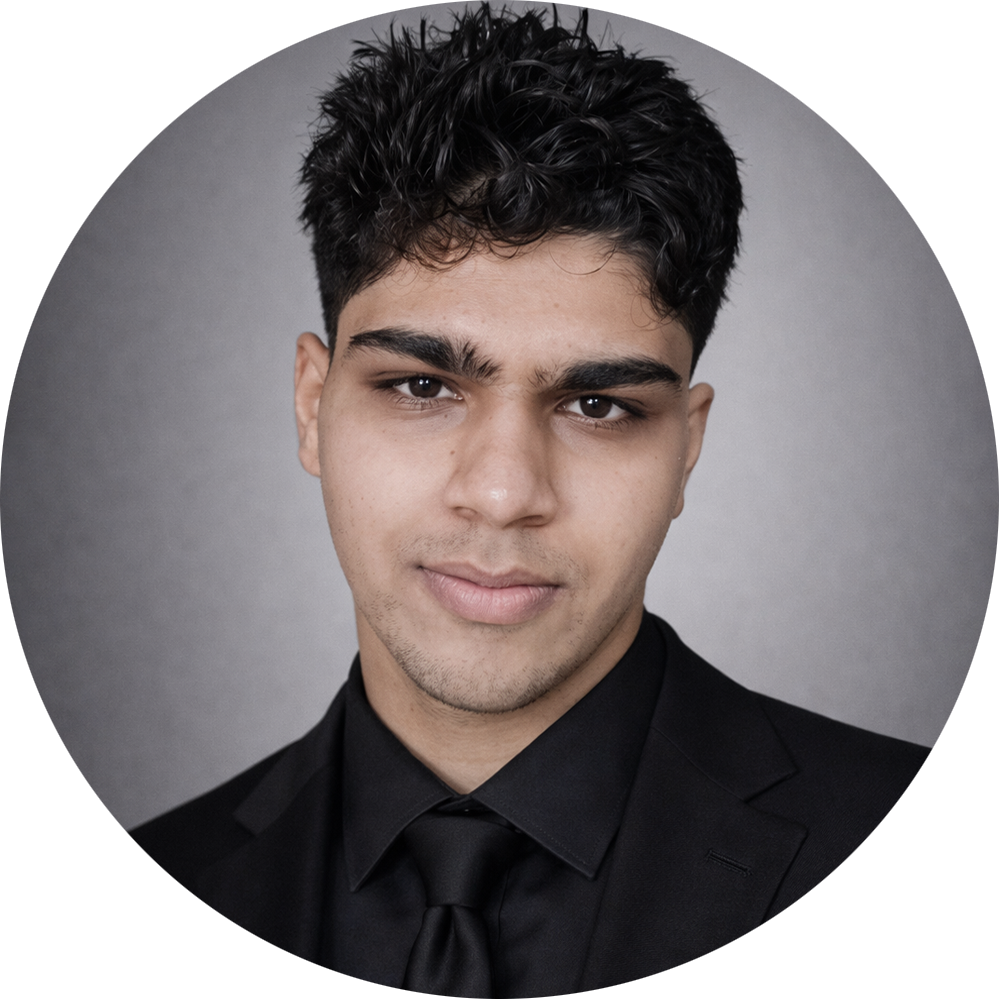
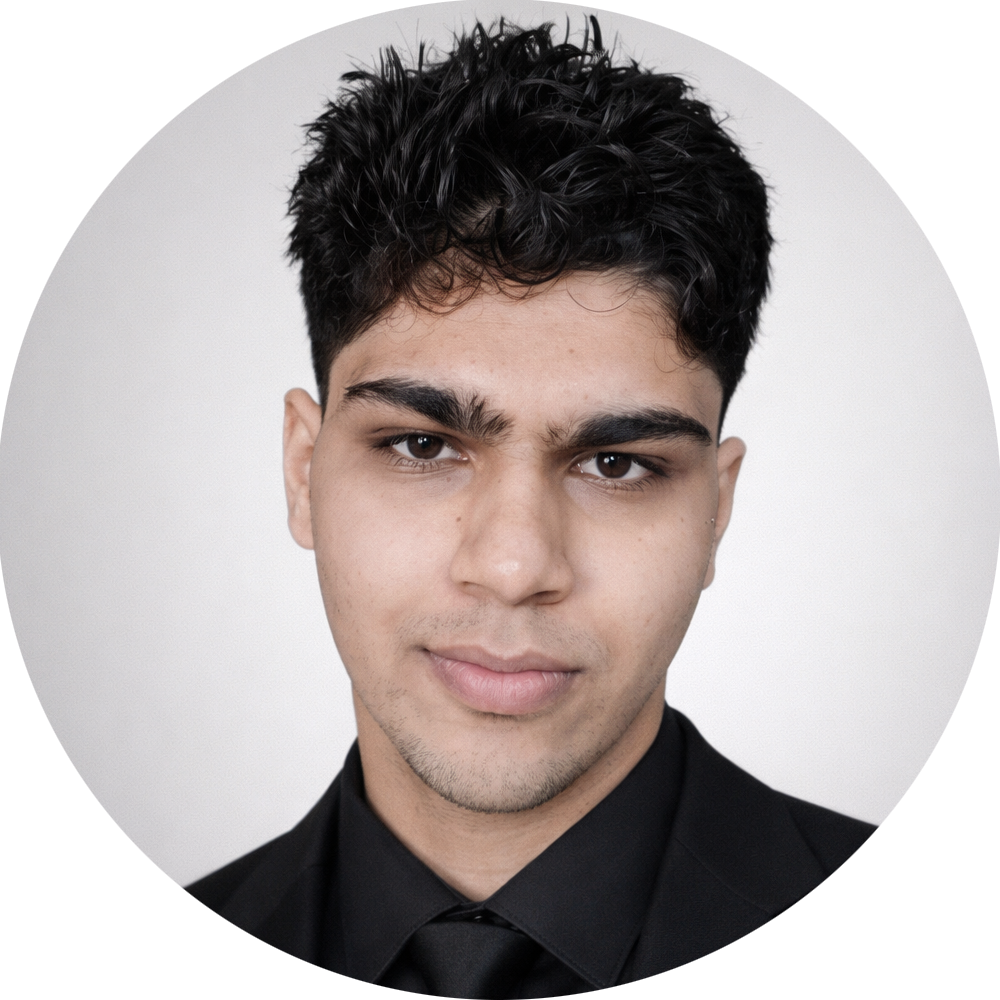
Site makeover: updated bio, role, skills, projects, socials, and profile picture

diff --git a/index.html b/index.html
@@ -41,14 +41,14 @@
     <!-- Hero / Profile section -->
     <section id="profile">
       <div class="section__pic-container">
-        <img src="./assets/profile-pic.png" alt="GrimNej profile picture" />
+        <img src="./assets/profile-picn.png" alt="GrimNej profile picture" />
       </div>
       <div class="section__text">
         <p class="section__text__p1">Hello, I'm</p>
         <h1 class="title">GrimNej</h1>
         <!-- real name subtitle -->
         <p class="section__text__p3">aka Ginej Neupane</p>
-        <p class="section__text__p2">AI/Cloud Student</p>
+        <p class="section__text__p2">AI Solutions Architect<br />&<br />Systems Engineer</p>
         <div class="btn-container">
           <button
             class="btn btn-color-2"
@@ -77,7 +77,7 @@
             src="./assets/youtube.png"
             alt="My YouTube channel"
             class="icon"
-            onclick="location.href='https://www.youtube.com/@grimnej1'"
+            onclick="location.href='https://www.youtube.com/@grimnej'"
           />
           <img
             src="./assets/discord.png"
@@ -86,10 +86,16 @@
             onclick="location.href='https://discord.com/users/713227090635391046'"
           />
           <img
+            src="./assets/Twitter.webp"
+            alt="My Twitter profile"
+            class="icon"
+            onclick="location.href='https://twitter.com/grimnej1'"
+          />
+          <img
             src="./assets/instagram.png"
             alt="My Instagram profile"
             class="icon"
-            onclick="location.href='https://www.instagram.com/grimnej1/'"
+            onclick="location.href='https://www.instagram.com/grimnej/'"
           />
         </div>
       </div>
@@ -115,7 +121,7 @@
                 class="icon"
               />
               <h3>Experience</h3>
-              <p>1+ years <br />Learning AI/Cloud</p>
+              <p>6 months<br />AI Solutions Architect (Intern)</p>
             </div>
             <div class="details-container">
               <img
@@ -124,21 +130,32 @@
                 class="icon"
               />
               <h3>Education</h3>
-              <p>Bachelor of Computer<br />Applications (Year 3rd)</p>
+              <p>Bachelor of Computer<br />Applications</p>
             </div>
           </div>
           <div class="text-container">
             <p>
-              I'm Ginej Neupane, known as GrimNej in the developer community.
-              I'm on a journey to specialize in AI/Cloud because I love
-              leveraging tools that make life easier and time efficient. My
-              commitment is simple: "Know everything about something and know
-              something about everything," which is why I specialize in AI/Cloud
-              while also retaining an interest in Content Creation and Language
-              Articulation (English). My skills range from coding to editing to
-              gaming, as well as representing groups in podcasts. I am proficient
-              in Python and have a positive history with content creation, making
-              me a sort of polymath in this Advanced Era.
+              I'm Ginej Neupane, better known as GrimNej in the dev community.
+              I'm an AI Solutions Architect and High Performance Systems Engineer.
+              My primary suit is rapid execution. I specialize in building prototypes
+              and functional MVPs in the shortest amount of time possible. If you have
+              a concept and need to know if it is technically viable, I can provide a
+              verdict and deliver a working product that serves as a solid foundation
+              for your future ventures.<br /><br />
+              As a full stack engineer, I'm not bound to any specific stack or framework.
+              I have a comprehensive understanding of the current landscape and use whatever
+              tools are necessary to architect systems that scale. Whether it is complex
+              RAG pipelines or high-performance automation through strict code, I focus on
+              building robust architectures rather than just writing scripts. My approach is
+              rooted in an architectural mindset and total transparency. When we work together,
+              you have a partner who is 100% on your side. I value the human element and bring
+              a sense of friendliness to my communication, ensuring we stay on the same spectrum
+              throughout the entire development journey.<br /><br />
+              I am looking for AI startups and enterprise teams that need elite engineering and
+              someone who can move from idea to execution with speed, and also people who just
+              want to test out the ideas in their head to figure out if it's viable or not via
+              building a quick prototype or an MVP. If you need a partner who can bring your
+              vision to life in record time, let's talk.
             </p>
           </div>
         </div>
@@ -200,8 +217,8 @@
                   class="icon"
                 />
                 <div>
-                  <h3>Git/GitHub</h3>
-                  <p>Experienced</p>
+                  <h3>Agentic AI</h3>
+                  <p>Intermediate</p>
                 </div>
               </article>
               <article>
@@ -294,8 +311,8 @@
                   class="icon"
                 />
                 <div>
-                  <h3>Oracle</h3>
-                  <p>Intermediate</p>
+                  <h3>Agentic Coding</h3>
+                  <p>Experienced</p>
                 </div>
               </article>
             </div>
@@ -319,37 +336,66 @@
           <div class="details-container color-container">
             <div class="article-container">
               <img
-                src="./assets/project-1.png"
-                alt="Project 1"
+                src="./assets/project-1-new.png"
+                alt="Open Proto"
                 class="project-img"
               />
             </div>
-            <h2 class="experience-sub-title project-title">Adaptive Persona Discord Ai Bot</h2>
+            <h2 class="experience-sub-title project-title">Open Proto</h2>
             <div class="btn-container">
               <button
                 class="btn btn-color-2 project-btn"
-                onclick="location.href='https://github.com/GrimNej/Adaptive-Persona-Discord-Ai-Bot'"
+                onclick="location.href='https://github.com/GrimNej/Open-Proto'"
               >
                 Github
               </button>
+              <!-- Demo Video button hidden until a video is recorded
               <button
                 class="btn btn-color-2 project-btn"
-                onclick="location.href='https://youtu.be/Je2yY-zOH3w'"
+                onclick="location.href='#'"
               >
                 Demo Video
               </button>
+              -->
             </div>
           </div>
           <!-- Project 2 -->
           <div class="details-container color-container">
             <div class="article-container">
               <img
-                src="./assets/project-2.png"
-                alt="Project 2"
+                src="./assets/project-2-new.png"
+                alt="OrthoVerba"
                 class="project-img"
               />
             </div>
-            <h2 class="experience-sub-title project-title">ServerMind Semantic Search Bot</h2>
+            <h2 class="experience-sub-title project-title">OrthoVerba</h2>
+            <div class="btn-container">
+              <button
+                class="btn btn-color-2 project-btn"
+                onclick="location.href='https://github.com/GrimNej/Project-OrthoVerba'"
+              >
+                Github
+              </button>
+              <!-- Demo Video button hidden until a video is recorded
+              <button
+                class="btn btn-color-2 project-btn"
+                onclick="location.href='#'"
+              >
+                Demo Video
+              </button>
+              -->
+            </div>
+          </div>
+          <!-- Project 3 -->
+          <div class="details-container color-container">
+            <div class="article-container">
+              <img
+                src="./assets/project-3-new.png"
+                alt="ServerMind"
+                class="project-img"
+              />
+            </div>
+            <h2 class="experience-sub-title project-title">ServerMind</h2>
             <div class="btn-container">
               <button
                 class="btn btn-color-2 project-btn"
@@ -357,37 +403,14 @@
               >
                 Github
               </button>
-              <button
-                class="btn btn-color-2 project-btn"
-                onclick="location.href='https://youtu.be/p0Yk4avZYm8'"
-              >
-                Demo Video
-              </button>
-            </div>
-          </div>
-          <!-- Project 3 -->
-          <div class="details-container color-container">
-            <div class="article-container">
-              <img
-                src="./assets/project-3.png"
-                alt="Project 3"
-                class="project-img"
-              />
-            </div>
-            <h2 class="experience-sub-title project-title">LLM Integrated MCQ Quiz Game</h2>
-            <div class="btn-container">
-              <button
-                class="btn btn-color-2 project-btn"
-                onclick="location.href='https://github.com/GrimNej/LLM-Integrated-MCQ-Quiz-Game'"
-              >
-                Github
-              </button>
+              <!-- Demo Video button hidden until a video is recorded
               <button disabled
                 class="btn btn-color-2 project-btn"
                 onclick="location.href='#'"
               >
                 Demo Video
               </button>
+              -->
             </div>
           </div>
         </div>
@@ -426,7 +449,7 @@
             alt="YouTube icon"
             class="icon contact-icon"
           />
-          <p><a href="https://www.youtube.com/@grimnej1">YouTube</a></p>
+          <p><a href="https://www.youtube.com/@grimnej">YouTube</a></p>
         </div>
         <div class="contact-info-container">
           <img
@@ -438,11 +461,19 @@
         </div>
         <div class="contact-info-container">
           <img
+            src="./assets/Twitter.webp"
+            alt="Twitter icon"
+            class="icon contact-icon"
+          />
+          <p><a href="https://twitter.com/grimnej1">Twitter</a></p>
+        </div>
+        <div class="contact-info-container">
+          <img
             src="./assets/instagram.png"
             alt="Instagram icon"
             class="icon contact-icon"
           />
-          <p><a href="https://www.instagram.com/grimnej1/">Instagram</a></p>
+          <p><a href="https://www.instagram.com/grimnej/">Instagram</a></p>
         </div>
       </div>
     </section>

diff --git a/style.css b/style.css
@@ -454,8 +454,9 @@ article .icon {
 
 .project-img {
   border-radius: 2rem;
-  width: 90%;
-  height: 90%;
+  width: 100%;
+  height: auto;
+  display: block;
 }
 
 .project-title {
